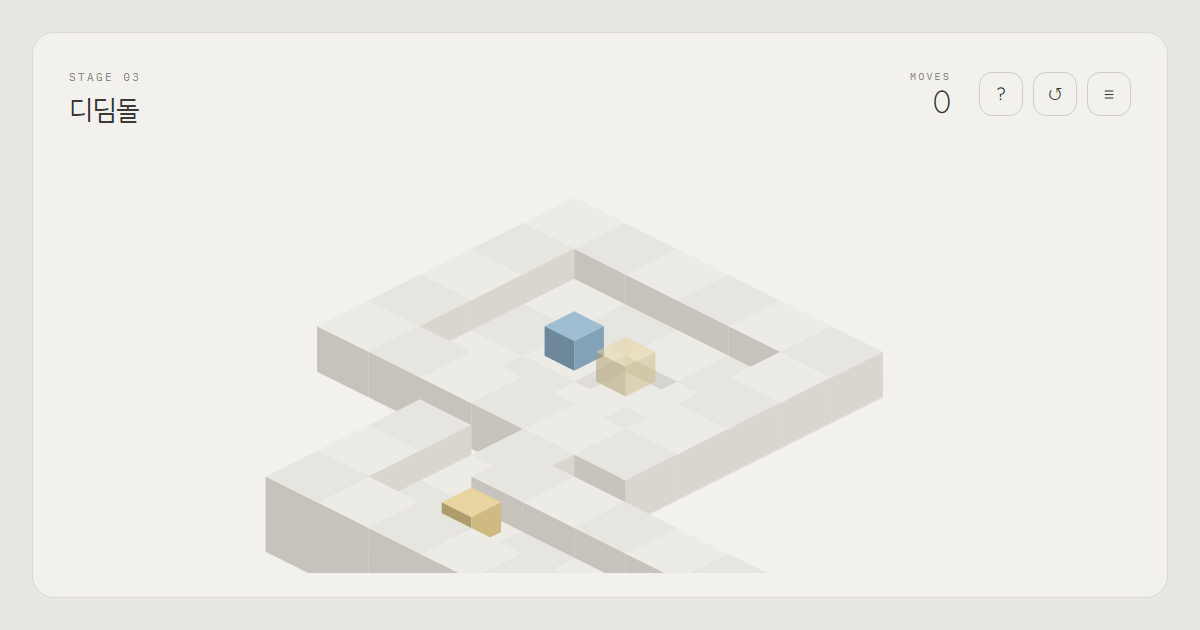
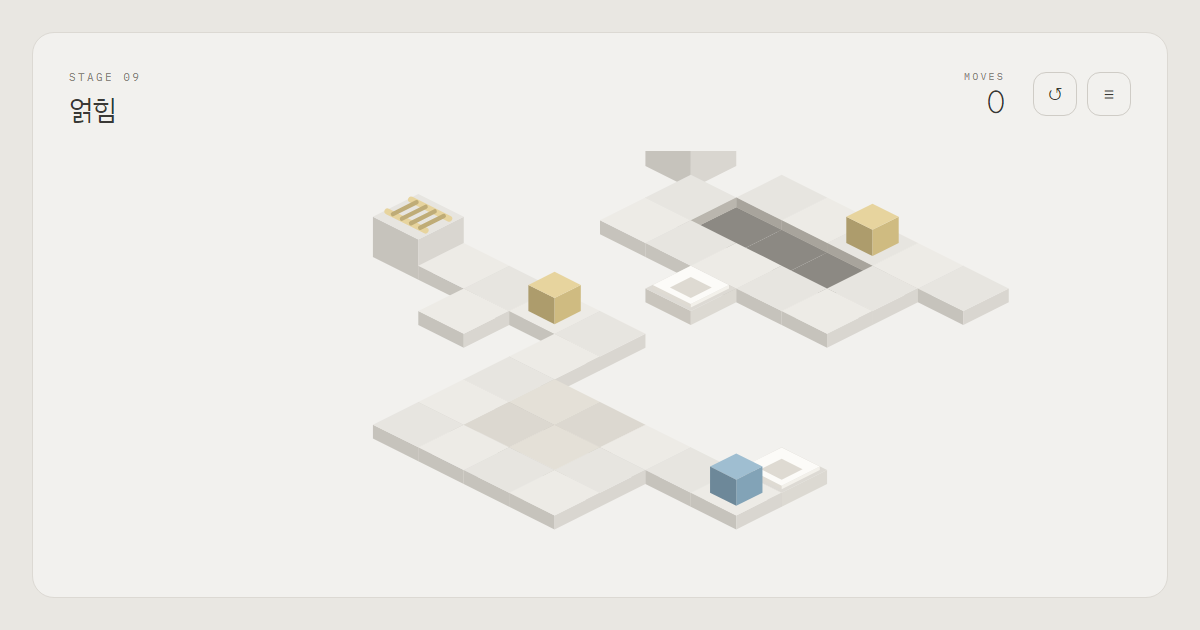
chore: 공유 카드를 3-9로

diff --git a/apps/web/e2e/assets.spec.ts b/apps/web/e2e/assets.spec.ts
@@ -1,4 +1,4 @@
-import { type Page, test } from '@playwright/test'
+import { test } from '@playwright/test'
 
 // 화면이나 글꼴이 바뀌면 pnpm shot으로 다시 찍는 배포용 이미지
 const ICONS = [
@@ -7,31 +7,25 @@ const ICONS = [
   { file: 'icon-512.png', size: 512 },
 ]
 
-// 1~9를 클리어한 진행. 모든 스테이지가 열리고 가이드가 뜨지 않는다
+// 1~3월드를 다 깬 진행. 모든 월드가 열리고 가이드가 뜨지 않는다
 const OPENED = {
   version: 1,
   stages: Object.fromEntries(
-    Array.from({ length: 9 }, (_, i) => [`1-${i + 1}`, { bestMoves: 8, stars: 3 }]),
+    [1, 2, 3].flatMap((world) =>
+      Array.from({ length: 10 }, (_, i) => [`${world}-${i + 1}`, { bestMoves: 8, stars: 3 }]),
+    ),
   ),
 }
 
 const OG_SCENES = {
-  title: async () => {},
-  'stage-03': async (page: Page) => {
-    await page.getByRole('button', { name: '시작' }).click()
-    await page.getByRole('button', { name: /03/ }).click()
-    await page.getByText('STAGE 03').waitFor()
-  },
-  'stage-10': async (page: Page) => {
-    await page.getByRole('button', { name: '시작' }).click()
-    await page.getByRole('button', { name: /10/ }).click()
-    await page.getByText('STAGE 10').waitFor()
-    await page.getByRole('button', { name: '건너뛰기' }).click()
-  },
+  title: '/',
+  'stage-1-3': '/#/play/1-3',
+  'stage-3-9': '/#/play/3-9',
+  'stage-4-3': '/#/play/4-3',
 }
 
-// 공유 카드에 쓸 장면
-const OG_CHOICE: keyof typeof OG_SCENES = 'stage-03'
+// 공유 카드에 쓸 장면. 사다리와 상자와 짝 칸과 무너지는 칸이 한 화면에 다 나온다
+const OG_CHOICE: keyof typeof OG_SCENES = 'stage-3-9'
 
 test('@shot 아이콘 PNG', async ({ page }) => {
   for (const icon of ICONS) {
@@ -49,9 +43,8 @@ test.describe('공유 이미지', () => {
       localStorage.setItem('cubound:progress', JSON.stringify(progress))
     }, OPENED)
 
-    for (const [name, setup] of Object.entries(OG_SCENES)) {
-      await page.goto('/')
-      await setup(page)
+    for (const [name, url] of Object.entries(OG_SCENES)) {
+      await page.goto(url)
       await page.waitForTimeout(900)
       await page.screenshot({ path: `e2e/.screenshots/og-${name}.png` })
       if (name === OG_CHOICE) await page.screenshot({ path: 'public/og.png' })
